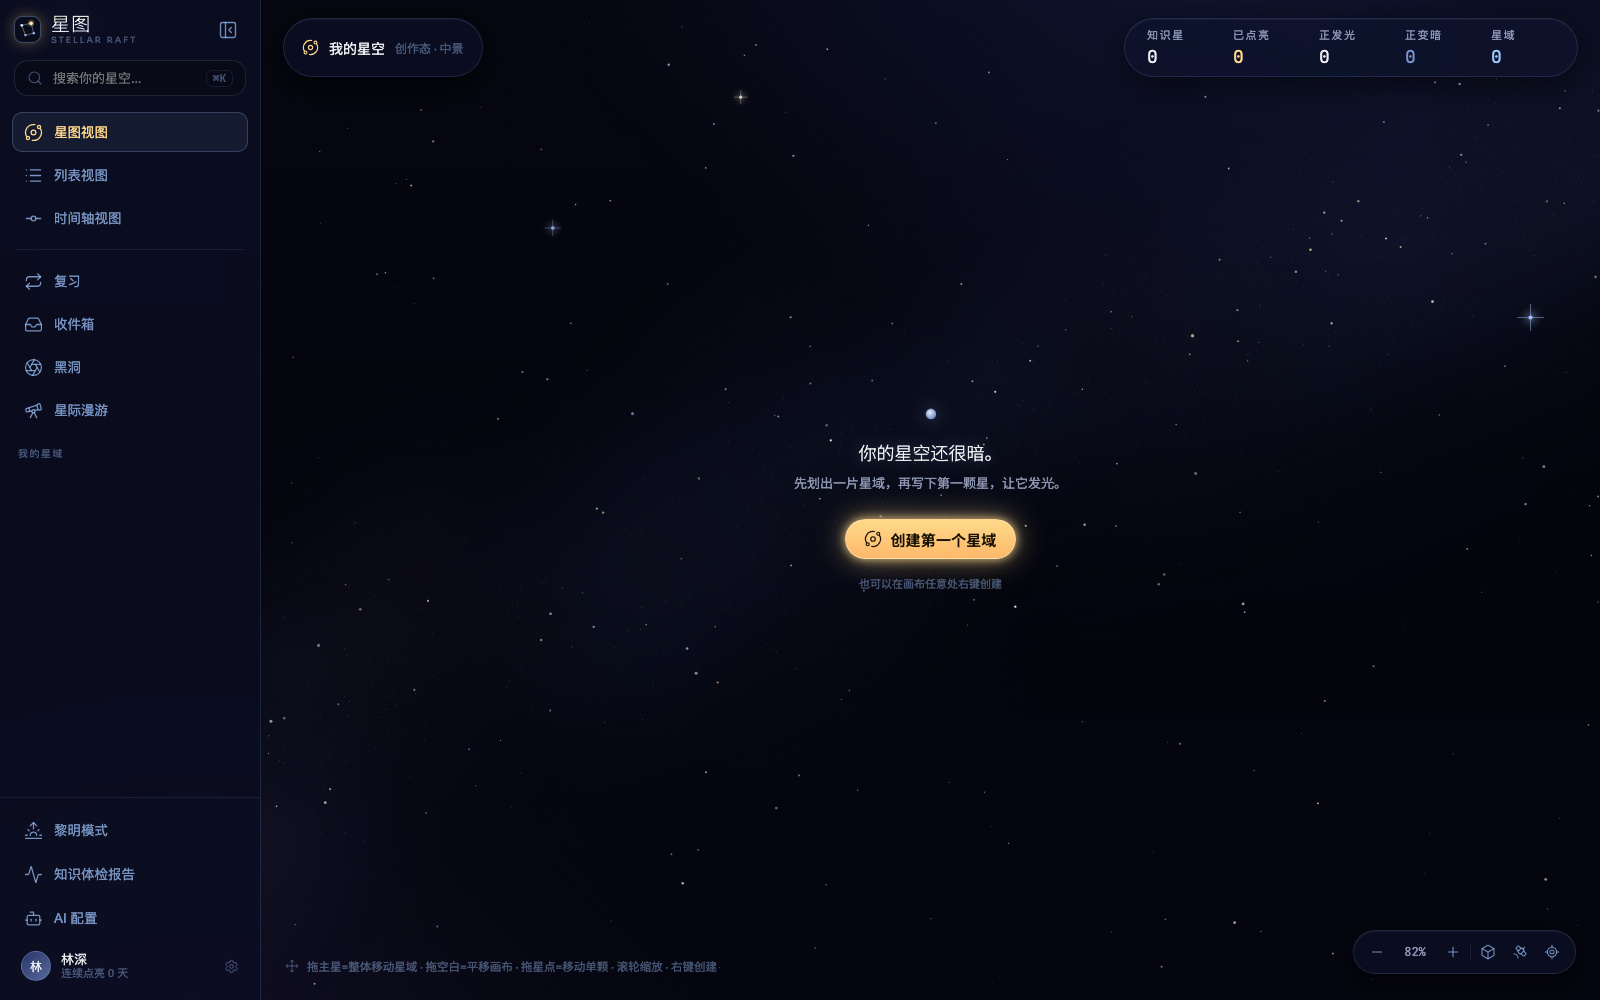
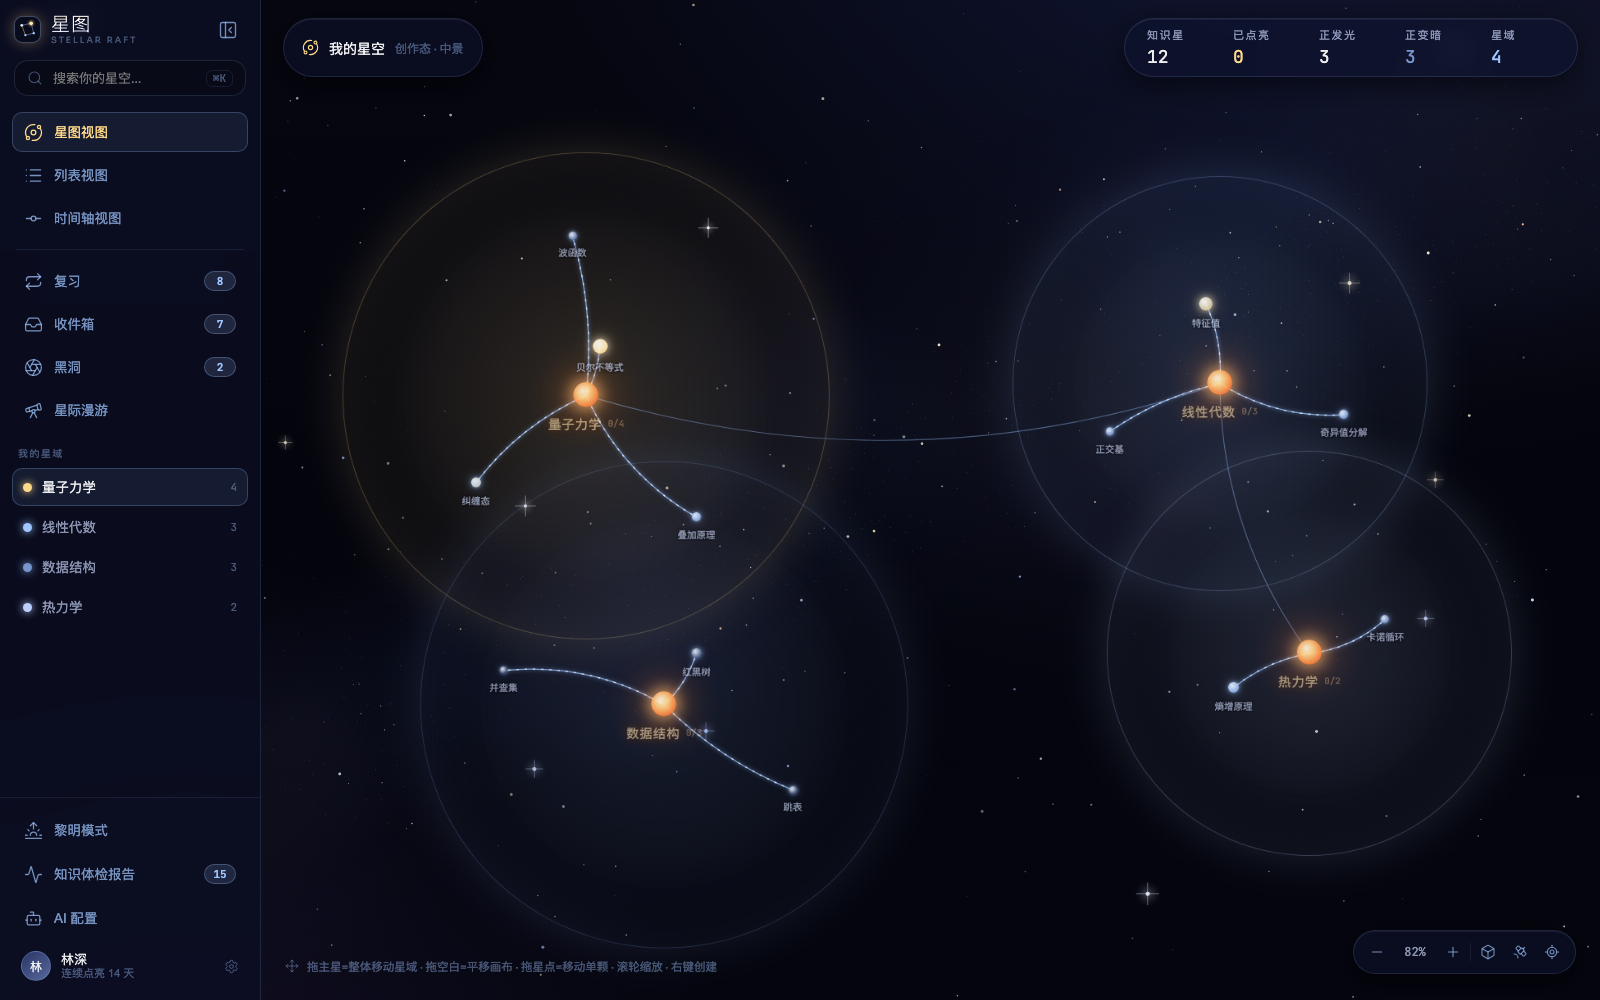
docs: README 换用满星座实拍首图 + 手绘品牌 SVG 图（替换 Mermaid，修复渲染失败）

diff --git a/README.md b/README.md
@@ -108,15 +108,9 @@
 
 **English** — Each star holds `sr = { S stability, last review, lit timestamp, ember timestamp }`. Retrievability `R = exp(−Δt / S)` is used directly as brightness and recomputed on every open, view switch, and per-minute heartbeat. **Ignition** is a certification axis independent of brightness:
 
-```mermaid
-stateDiagram-v2
-    direction LR
-    [*] --> Unlit: 新建知识星 New star
-    Unlit --> Lit: 费曼讲透 Explained (≥60字 · 覆盖要点)
-    Lit --> Ember: R < 0.35 衰减 / 被评「忘了」
-    Ember --> Lit: 费曼快速通道 Re-kindle (门槛减半)
-    Lit --> Lit: 复习成功 · 巩固 S↑
-```
+<div align="center">
+<img src="docs/diagrams/ignite-state.svg" alt="点亮状态机 · Ignite state machine" width="820"/>
+</div>
 
 > 亮度 `R = exp(−Δt / S)`:冷蓝(遗忘)→ 暖金白(掌握)。复习成功 `S ×= 增长因子 + (1−R)·0.6`,失败 `×0.45`。曾点亮的星稳定度封顶 365 天,从未点亮的封顶 60 天。
 > Brightness `R = exp(−Δt / S)`: cold blue (forgetting) → warm gold-white (mastered). On success `S ×= growth + (1−R)·0.6`, on failure `×0.45`. Stability caps at 365 days once lit, 60 days if never lit.
@@ -129,28 +123,9 @@ stateDiagram-v2
 
 **English** — Layered bottom-up: design tokens → component library → app UI kit, with a zero-dependency backend and a zero-build docs site alongside.
 
-```mermaid
-flowchart TD
-    subgraph FOUND["基础层 · Foundations"]
-        T["tokens/<br/>colors · spacing · typography<br/>effects · themes 黎明 Dawn"]
-        A["assets/<br/>starfield 星场 · SRConnect 连接曲线"]
-    end
-    subgraph DS["组件库 · Design System · 18 primitives"]
-        C["core · knowledge · overlay · form<br/>window.StellarRaftDesignSystem_2866af"]
-    end
-    subgraph APP["应用 · UI Kit"]
-        K["ui_kits/stellar-raft/<br/>8 屏 + 记忆模型 + 点亮 复习 + 持久化"]
-    end
-    subgraph BACK["后端与文档 · Backend & Docs"]
-        S["server/ · node:sqlite<br/>匿名令牌 · 整存整取 · 分享码"]
-        D["docs/ · 零构建文档站"]
-    end
-    T --> C --> K
-    A --> C
-    K <--> S
-    C --> D
-    K --> D
-```
+<div align="center">
+<img src="docs/diagrams/architecture.svg" alt="分层架构 · Architecture" width="820"/>
+</div>
 
 ---
 
